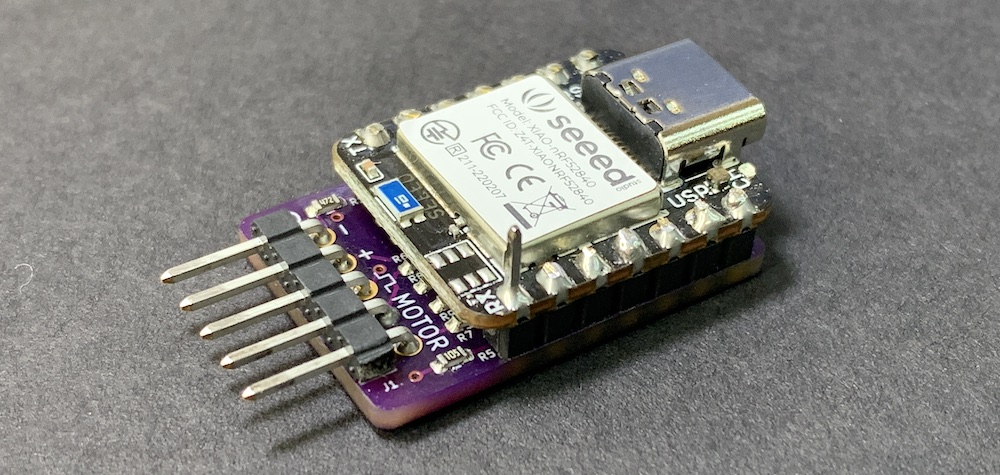
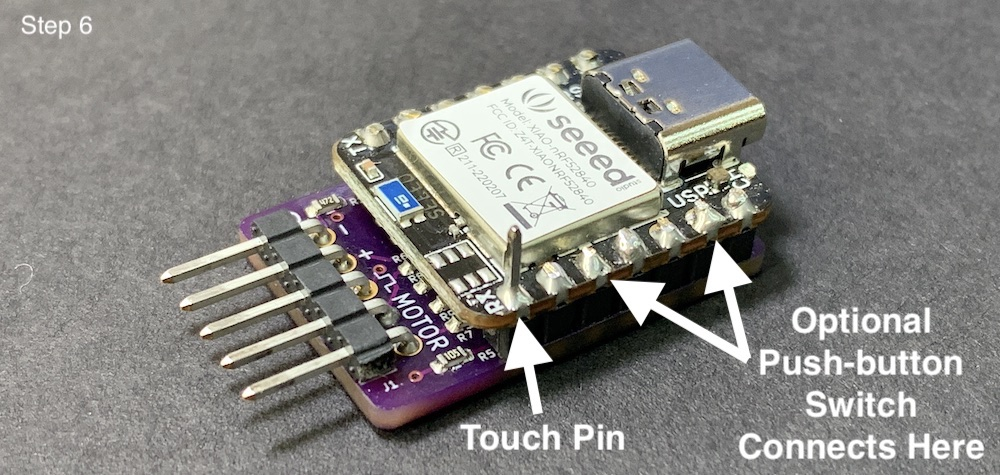
Update

diff --git a/docs/Assembly.md b/docs/Assembly.md
@@ -16,7 +16,7 @@ If you prefer to purchase items separately here are some suggested sources:
 
 | Qty | Description | Online Sources |
 | :---: | ----------- | ------------- |
-| 1 | Seed Studio Xiao nRF52840<br>(The cheaper one, not the 'Sense' version) | [Digikey][9]<br>[Mouser][10]<br>[Seeed Studio][11]  |
+| 1 | Seeed Studio Xiao nRF52840<br>(The cheaper one, not the 'Sense' version) | [Digikey][9]<br>[Mouser][10]<br>[Seeed Studio][11]  |
 | 1 | Climb_and_Dive Backpack w/ 5 pin RA Header Strip| === link to Tindie |
 | 1 | JST Battery Connector (Optional) | [HobbyTown][7]<br>[Amazon][8] |
 
@@ -32,52 +32,59 @@ The boards as supplied include strips of breakaway header pins.  Assemble and so
 
 ![](assets/images/Top and Side Views.png)
 
+---
 **Step 1** - Insert the bent legs of the 5 pin right angle strip through the backpack PCB and hold with a clamp for soldering.
 
 ![](assets/images/5 Pin Clamp.jpg)
 
+___
 **Step 2** - Solder the pins to the back side of the backpack as shown.
 
 ![](assets/images/Solder 5 Pin.jpg)
 
+___
 **Step 3** - Insert the short legs of the 7 pin header strips through the holes on the top of the backpack.  Then stack the Xiao on top of the long pins and clamp together for soldering.  Make sure it is orientated as shown.
 
 ![](assets/images/Xiao Clamp Top.jpg)
 
+___
 **Step 4** - Solder all of the short header pins on the back of the backpack.
 
 ![](assets/images/Solder Xiao Back.jpg)
 
+___
 **Step 5** - Flip it over and solder all of the longer header pins on the Xiao nRF52840.  Don't trim the long pins just yet.
 
 ![](assets/images/Solder Xiao Top.jpg)
 
+___
 **Step 6** - Now you can trim off *only* the long header pins that you don't need.  Do **not** cut the touch pin, leave it sticking out.
 
 {: .highlight }
-Note: If you prefer, the program code does include provisions to use an *optional* push-button switch instead of the touch pin.  If you want to use a push-button switch it will connect to the timer using the 2 pins as shown below.  Depending how you want to connect your switch, you may want to leave those two pins sticking out as well.  The push-button switch functions exactly the same as the touch pin.
+Note: If you prefer, the program code does include provisions to use an *optional* push-button switch instead of the touch pin.  If you want to use a push-button switch it will connect to the timer using the 2 pins as shown below.  Depending how you want to connect your switch, you may want to leave those two pins sticking out as well.  The push-button switch functions exactly the same as the touch pin.  Note: use a normally open (NO) momentary contact type switch.
 
 ![](assets/images/Pin Labels.png)
 ![](assets/images/Trimmed Pins.jpeg)
-
-## Installation ##
-
-The flat bottom of the timer **must** be installed on a vertical part of the aircraft with the ESC/Motor connection pins pointing forward and the component side of the timer facing the pilot.  Although not super-critical, the long side of the timer should be installed so that it is horizontal when the aircraft is flying straight and level.  Calibration of the accelerometer is not required.
-
-A couple of pieces of adhesive backed hook and loop fastener make quick work of mounting the timer in position.
-
-![](assets/images/Ringmaster Installation.jpeg)
 
 ## Connecting it All Together ##
 
 {: .highlight }
 When connecting the ESC servo connector be sure the **ground wire (brown or black)** is attached to the ground pin on the board, labeled **GND**.  
 
+![](assets/images/Connections.jpeg)
 ![](assets/images/Climb_and_Dive Connection Diagram.png)
 
 Connect the backpack motor pins to any two of the three motor wires.  It doesn't matter which two.  For convenience I use a male JST battery style connector (just for reference: the full manufacturers name is a male JST-RYC connector).  Solder the JST connector leads into the back of the bullet connectors of the ESC motor wires.
 
 ![](assets/images/Bullet Connectors.jpeg)
+
+## Installation ##
+
+The flat bottom of the timer **must** be installed on a vertical part of the aircraft with the ESC/Motor connection pins pointing forward and the component side of the timer facing the pilot.  Although not super-critical, the long side of the timer should be installed so that it is horizontal when the aircraft is flying straight and level.  Calibration of the accelerometer is not required.
+
+A couple of pieces of adhesive backed hook and loop fastener (aka Velcro) makes quick work of mounting the timer in position.
+
+![](assets/images/Ringmaster Installation.jpeg)
 
 [1]: https://learn.adafruit.com/adafruit-guide-excellent-soldering
 [2]: https://learn.sparkfun.com/tutorials/how-to-solder-through-hole-soldering?_ga=2.264399628.2047829894.1668554338-987389297.1656854053

diff --git a/docs/Operation.md b/docs/Operation.md
@@ -13,7 +13,7 @@ has_children: true
 
 Install the timer and connect to the ESC as discussed in the assembly instructions.
 
-The tri-colour LED is used to communicate the different modes of operation.  The capacitive touch pin is used for operator input.  This is similar to the touch sensitive screen on a smart-phone.  (Hint: As the conductivity of the average fingertip can vary, adding a bit of moisture to your fingertip will greatly improve the touch response.)
+The tri-colour LED is used to communicate the different modes of operation.  The touch sensitive pin is used for operator input.  This is similar to the touch sensitive screen on a smart-phone.  (Hint: As the conductivity of the average fingertip can vary, adding a bit of moisture to your fingertip will greatly improve the touch response.)
 
 A long touch is a sustained touch for a minimum of 3 seconds.  A tap, or series of taps, is a single or multiple quick taps on the pin.  You will notice a 1 second delay after the last tap before the desired action takes place.  This short waiting period is needed to make sure all of the taps are complete.
 
@@ -25,7 +25,7 @@ To change any of the programmable settings please refer to the Bluetooth program
 {: .warning }
 SAFETY FIRST!  Any time the battery is connected stay clear of the prop.  The aircraft should always be held or secured until the pilot is ready.  When the flight ends the pilot should wait until his/her helper disconnects the battery before putting the handle down.
 
-When ready, touch and hold the pin (a long touch of a minimum of 3 seconds), the motor will spin up at a low RPM for a second and then stop.  The timer will now be in the Start Delay mode (flashing blue).  This indicates the start of the countdown timer before the motor starts.  During the last 5 seconds of the countdown the LED will change to white and flash quickly to warn of the impending startup of the motor.
+When ready, touch and hold the pin (a long touch of a minimum of 3 seconds), the motor will spin up at a low RPM for a second and then stop.  This short throttle 'blip' indicates the start of the flight sequence.  The timer will now be in the Start Delay mode (flashing blue).  This indicates the start of the countdown timer before the motor starts.  During the last 5 seconds of the countdown the LED will change to white and flash quickly to warn of the impending startup of the motor.
 
 {: .highlight }
 Note: Any touch of the pin during the Start Delay mode will stop the countdown and return to the Standby mode (green).
@@ -37,4 +37,4 @@ If you need to abort the flight: After the motor starts, **any touch of the pin 
 
 10 seconds before the Flight mode is complete the LED will quickly flash white to indicate the end of the flight.  The motor RPM will then increase for 3 seconds before stopping to aid in a smooth approach and landing.  Once the motor stops the program enters the Flight Complete mode (LED off).  The power must be reset in order to exit the Flight Complete mode.
 
-Disconnect the battery, replace it with a fully charge one and repeat the process for the next flight.
+Disconnect the battery, replace it with a fully charged one and repeat the process for the next flight.

diff --git a/index.md b/index.md
@@ -28,11 +28,11 @@ Programming the microcontroller is as easy as dragging and dropping a few files 
 
 - Dimensions: 27mm x 18mm x 9mm.  Weight: 5g.  Ideal for mounting on the side of a profile fuselage.
 
-- Capacitive touch sensor for user input.  No additional switches or buttons to wire and mount.  Although, if desired, the program code does allow for use with an optional remote pushbutton.
+- Touch sensitive pin for user input.  No additional switches or buttons to wire and mount.  Although, if desired, the program code does allow for use with an optional remote push-button switch.
 
 - Onboard multicolour LED to indicate the status of the timer.
 
-- Wireless programming in the field via a *free* Bluetooth app using a laptop, tablet or smart phone. The start-up delay, flight time and governed RPM settings plus a lot more more can be changed without any extra tools, cards or programming boxes.
+- Wireless programming in the field via a *free* Bluetooth app using a laptop, tablet or smart phone. The start-up delay, flight time and governed RPM settings plus a lot more can be changed without any extra tools, cards or programming boxes.
 
 - Programmable soft start.  The RPM increases over a programmable time period for smoother take-offs.
 
@@ -40,7 +40,7 @@ Programming the microcontroller is as easy as dragging and dropping a few files 
 
 - An onboard accelerometer provides a programmable active boost in power during a climb as well as a decrease in power in a dive.  Accelerometer calibration is not required.
 
-- Constant RPM throughout the flight is maintained by sensing the motor voltage using a PID feedback loop.  No need for a tachometer.  The RPM number you program is the RPM you get at the propeller.
+- Constant RPM throughout the flight is maintained by sensing the motor voltage using a PID control feedback loop.  No need for a tachometer.  The RPM number you program is the RPM you get at the propeller.
 
 - Works with lower cost ESC’s.  The governing function takes place in the timer so expensive governing ESC’s are not required.
 
@@ -54,6 +54,8 @@ Programming the microcontroller is as easy as dragging and dropping a few files 
 
 - Built-in micro USB C port.  Plug it into your computer and it shows up as a small disk drive.   This makes it very easy to keep the software up to date with the latest revisions.
 
-- The program code is written in Adafruit CircuitPython.  CircuitPython is an easy to read and easy to learn language well supported by comprehensive learning guides on the Adafruit website.
+- The program code is written in Adafruit CircuitPython.  CircuitPython is an easy to read and easy to learn language well supported by comprehensive [learning guides on the Adafruit website][1].
 
 - Reprogrammable.  Have another project idea in mind?  The Xiao line of development boards have the same footprint and pinouts as the Adafruit QTPy size of boards.  The Climb_and_Dive hardware platform is also a great starting point to use in developing code for your own project.  The Xiao can also be programmed as an Arduino device if you prefer.
+
+[1]: https://learn.adafruit.com/

diff --git a/docs/Power System Information.md b/docs/Power System Information.md
@@ -10,7 +10,7 @@ nav_order: 5
 
 ## ESC Information ##
 
-The details of how to program the your ESC is outside the scope of these instructions.  Please refer to your ESC instruction manual for information.
+The details of how to program your ESC (electronic speed controller) is outside the scope of these instructions.  Please refer to your ESC instruction manual for information.  If you are completely new to how electric control line power systems work, a brief overview can be found [here][1].
 
 As a reference guide, use the following table for suggested settings for ESC programming.
 
@@ -27,13 +27,15 @@ Note: The features described may or may *not* be present in the ESC you are usin
 
 The timer PWM signal covers a very wide throttle range and ESC throttle calibration is not likely required.  If you think your ESC requires throttle calibration and your instructions call for the RC transmitter stick to be at maximum throttle at power-up, use the following procedure:
 
-**Step 1** - **For maximum safety**: Remove the propeller from the motor.<br>
+**Step 1** - **Remove the propeller from the motor.**<br>
 **Step 2** - Hold the timer touch pin while connecting the battery power.  The timer will start up and output a maximum throttle signal.<br>
 **Step 3** - After the ESC is calibrated, release the timer touch pin.  The timer output will return to minimum throttle and the ESC should arm.<br>
 **Step 4** - Disconnect the battery and re-install the propeller.
 
 ## Motor Information ##
 
-In order for the timer to accurately determine the motor RPM you must know the number of magnetic poles used in your motor.  14 poles if the default choice but some motors use a different number.  The number of magnetic poles  can be found in you motor documentation or by counting the number of magnet segments glued around the inside of the rotating part of the motor.  Be sure *not* to count the number of stationary copper windings.
+In order for the timer to accurately determine the motor RPM you must know the number of magnetic poles used in your motor.  14 poles is the default choice but some motors use a different number.  The number of magnetic poles  can be found in you motor documentation or by counting the number of magnet segments glued around the inside of the rotating part of the motor.  Be sure ***not*** to count the number of stationary copper windings.
 
 Please refer to the timer Bluetooth programming section for information on where to enter this information.
+
+[1]: https://circuitflyer.com/electric%20power%20system%20101.html

diff --git a/docs/Programming/Bluetooth Programming.md b/docs/Programming/Bluetooth Programming.md
@@ -13,10 +13,10 @@ nav_order: 1
 
 ### Settings ###
 
-There are several features of the the timer that you can customize based on a user programmable setting.  Bluetooth 'pairing' is not normally required.
+There are several features of the the timer that you can customize based on a user programmable setting.  Bluetooth 'pairing' is not required.
 
 **Start Delay Time**<br>
-The start delay is programmable from 0 to 60 seconds in 1 second intervals.  This is the time delay between the motor blip when the timer sequence begins and when the motor starts up for take-off.  This gives the pilot time to walk to the handle and get ready before the motor starts.
+The start delay is programmable from 0 to 60 seconds in 1 second intervals.  This is the time delay between when the timer flight sequence begins and when the motor starts up for take-off.  This gives the pilot time to walk to the handle and get ready before the motor starts.
 
 **Flight Time**<br>
 The flight time can be set from 1 second to 360 seconds (6 minutes) in 1 second intervals.  This time begins when the motor reaches full flight RPM and lasts until the 3 second period of increased RPM just before the motor stops at the end of the flight.
@@ -78,7 +78,7 @@ The UART module will open but the screen will be blank.
 
 ![](assets/images/Bluefruit 5.5.png)
 
-**Step 8** - enter the new setting you would like to use and press **Send**.  The timer will then list all of the parameters again including the one you just changed.
+**Step 8** - Enter the new setting you would like to use and press **Send**.  The timer will then list all of the parameters again including the one you just changed.
 
 Repeat steps 7 and 8 for any other settings you would like to change.  
 
@@ -86,6 +86,6 @@ Repeat steps 7 and 8 for any other settings you would like to change.
 
 **Step 9** - When you are finished enter *item number 0* to save the settings and disconnect.  The timer LED will change to green (Standby mode).
 
-**Step 10** - On the app main screen it is now safe hit the OK button to disconnect and then close the app.
+**Step 10** - On the app main screen it is now safe hit to the OK button to disconnect and then close the app.
 
 ![](assets/images/Bluefruit 6.png)

diff --git a/docs/Software.md b/docs/Software.md
@@ -25,10 +25,10 @@ A quick note about USB C cables: If you have trouble getting the disk drive to s
 
 ### Installing CircuitPython on a New Xiao nRF52840: ###
 
-Plug in your board into your computer with a USB C data cable.  I will look like nothing happened. Don't worry.  Follow this simple procedure to install CircuitPython and get the `CIRCUITPY` drive to appear.
+Plug in your board into your computer with a USB C data cable.  It will look like nothing happened. Don't worry.  Follow this simple procedure to install CircuitPython and get the `CIRCUITPY` drive to appear.
 
 **Step 1** - Enter Bootloader mode<br>
-Before we install CircuitPython to the Seeed Studio XIAO nRF52840, it needs to be in bootloader mode. Enter the bootloader mode by the clicking the very tiny Reset Button **twice**:
+Before we install CircuitPython to the Seeed Studio XIAO nRF52840, it needs to be in bootloader mode. Enter the bootloader mode by clicking the very tiny Reset Button **twice**:
 
 ![](assets/images/XiaoBle.png)
 
@@ -44,14 +44,14 @@ Then the `XAIO-SENSE` disk drive will show up:
 
 ![](assets/images/Xiao-circuitpy.png)
 
-Congratulations, you have successfully installed CircuitPython.  That was easy.
+Congratulations, you have successfully installed CircuitPython.
 
 ### Installing the Program Code and Library Files: ###
 **Step 4** - Drag the code.py file and the lib folder that you downloaded and drop it onto the `CIRCUITPY` drive.
 
 ![](assets/images/Code-circuitpy.png)
 
-Congratulations, you should now have a Climb_and_Drive timer.  The LED on the Xiao should now illuminate green to indicate that it's currently in Standby Mode.  That was even easier.
+Congratulations, you should now have a Climb_and_Drive timer.  The LED on the Xiao should now illuminate green to indicate that it's currently in Standby Mode.
 
 ### Updating the Software: ###
 If there are future updates to the program code, repeat **Step 4** to overwrite and replace the old code.py with the newest version.  If there is a major update, perhaps because a newer version of CircuitPython is released, then repeat **Steps 1 through 4** to replace all of the files and libraries.

diff --git a/docs/Bluetooth App.md b/docs/Bluetooth App.md
@@ -12,16 +12,16 @@ nav_order: 4
 
 The preferred Bluetooth app is called ***Bluefruit Connect*** published by Adafruit industries and is available as a free download from both [Android Google Play][2] or from the [Apple App Store][1].  Adafruit publishes this app as a generic Bluetooth, or BLE (Bluetooth Low Energy), development tool for programmers and hobbyists to experiment with the various Bluetooth enabled development boards that they offer.
 
-The app is capable of several different tasks.  Communication with the Climb_and_Dive timer only requires the use of the UART Service.  Pairing is not required.
+The Bluefruit Connect app is capable of several different tasks.  Communication with the Climb_and_Dive timer only requires the use of the UART Service.  UART is a standardized communications protocol used to transfer data between different devices.  Pairing is not required.
 
-Download and install the app.  Open the app and set it up as shown below.
+Download and install the Bluefruit Connect app.  Open the app and set it up as shown below.
 - Show unnamed devices **OFF**
 - Must have UART Service **ON**
 - Multiple UART mode **OFF**
 
 ![](assets/images/Bluefruit opening page.png)
 
-That's all you really need to know about the app.  Using the app with the timer is covered in the programming section of the operating instructions.  If you have a questions or would like to learn more about the app, Adafruit has detailed tutorial [here][3].
+Using the app with the timer is covered in the programming section of the operating instructions.  If you have a questions or would like to learn more about the app, Adafruit has detailed tutorial [here][3].
 
 [1]: https://apps.apple.com/ca/app/bluefruit-connect/id830125974
 [2]: https://play.google.com/store/apps/details?id=com.adafruit.bluefruit.le.connect&hl=en_CA&gl=US&pli=1

diff --git a/docs/FAQ's.md b/docs/FAQ's.md
@@ -10,7 +10,7 @@ nav_order: 7
 
 ## Frequently Asked Questions ##
 
-**Does the Climb_and_Dive work with any ESC?**  The timer does requires an ESC with a built in BEC (battery eliminator circuit).  Other than that, the timer should work with just about any ESC but there may be some rare ESC's out there that may not be compatible.
+**Does the Climb_and_Dive work with any ESC?**  The timer does require an ESC with a built in BEC (battery eliminator circuit).  Other than that, the timer should work with just about any ESC but there may be some rare ESC's out there that may not be compatible.
 
 **Can I extend the touch sensor pin?**  Yes, in theory.  You will have to experiment to make sure it works reliably, but you can add a wire to the touch sensor pin to extend the ‘sensor’ to another location.
 
@@ -24,7 +24,7 @@ nav_order: 7
 
 **What type of solder do you use for the backpack PCB assembly?**  The backpack components are soldered with a RoHS compliant lead-free synthetic no-clean formula solder paste.
 
-**What is bootout.txt on the `CIRCUITPY` drive?**  This a small text file is automatically generated by CircuitPython.  It includes information on which version of CircuitPython is installed as well as details about the microcontroller board.
+**What is bootout.txt on the `CIRCUITPY` drive?**  This a small text file that is automatically generated by CircuitPython.  It includes information on which version of CircuitPython is installed as well as details about the microcontroller board.
 
 **What is CircuitPython?**  CircuitPython is Adafruit's fork of the MicroPython programming language.  Micropython is a subset of instructions derived from Python specifically for use on microcontrollers.  CircuitPython is well supported and a tonne of information can be found in various [Adafruit learning guides][2].
 

diff --git a/docs/Programming/Regular Programming.md b/docs/Programming/Regular Programming.md
@@ -40,7 +40,7 @@ While the motor is running:<br>
 1 tap on the pin will increase the RPM by 50 RPM.<br>
 2 taps will decrease the RPM by 50 RPM.<br>  
 
-Be sure to wait about a second between each set of taps for the RPM to change. Use a tachometer for a more precise setting of the RPM.  Avoid prolong running on the ground as some electrical components may get hot.
+Be sure to wait about a second between each set of taps for the RPM to change. Use a tachometer for a more precise setting of the RPM.  Avoid prolonged running on the ground as some electrical components may get hot.
 
 When the desired RPM is reached:<br>
 **3 TAPS TO STOP THE MOTOR.**<br>
